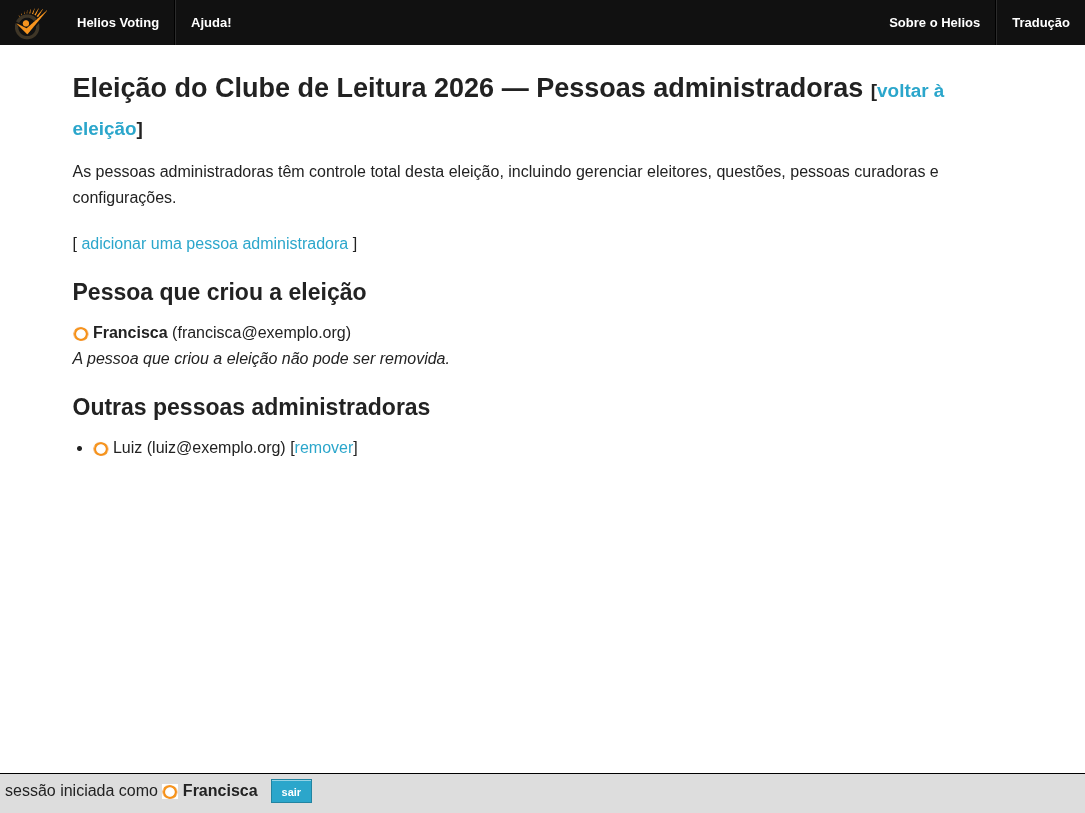
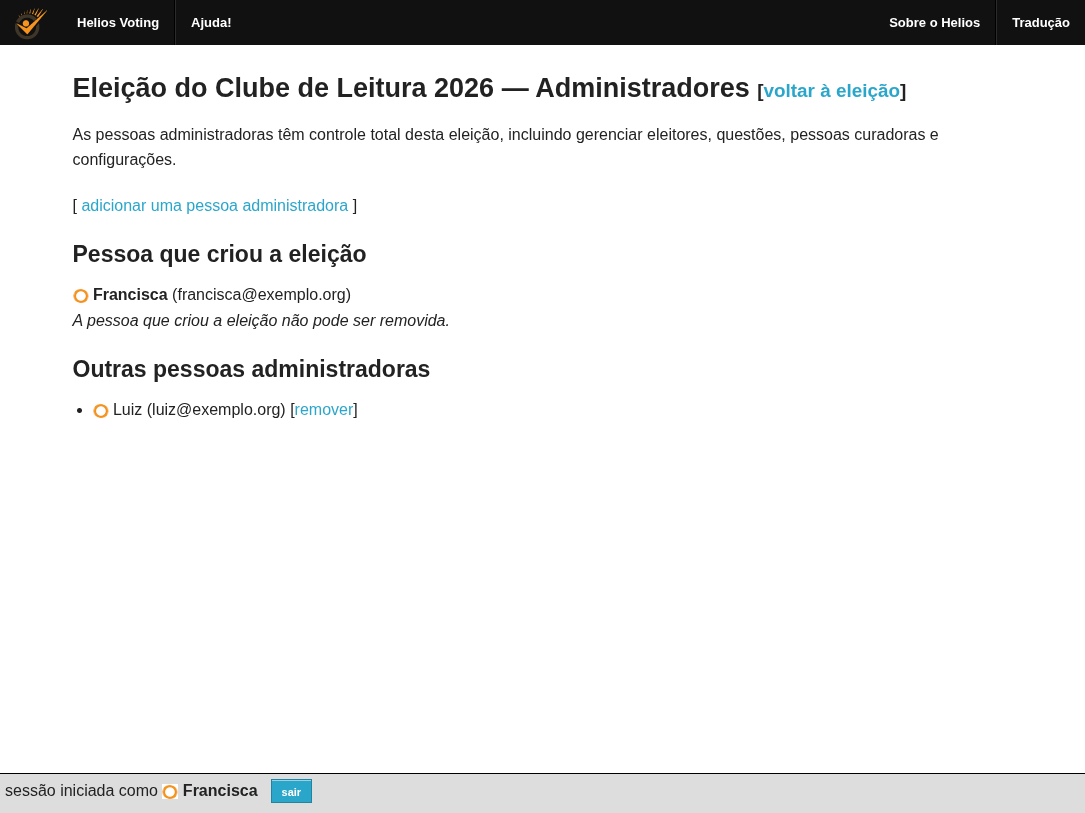
feat(i18n): chama a página dos administradores de Administradores de X

Changed region(s): [[0.0608, 0.1538, 0.8516, 0.4613], [0.0608, 0.492, 0.3954, 0.5535], [0.4866, 0.0923, 0.882, 0.123]]

diff --git a/helios/test_ptbr.py b/helios/test_ptbr.py
@@ -225,7 +225,8 @@ class PtBrAdminPagesTests(WebTest):
     def test_admins_page(self):
         r = self.get(reverse('election@admins', args=[self.election.uuid]))
         self.assertEqual(r.status_code, 200)
-        self.assertContains(r, 'Pessoas administradoras')
+        self.assertContains(r, '&mdash; Administradores')
+        self.assertNotContains(r, 'Pessoas administradoras de')
         self.assertContains(r, 'adicionar uma pessoa administradora')
         self.assertNotContains(r, 'add an administrator')
 

diff --git a/docs/diario.md b/docs/diario.md
@@ -245,7 +245,7 @@ Decisão do usuário, ponto a ponto, depois de ver a lista completa do que mudar
 - **Arquivos gerados:** `heliosverifier/js/strings.pt-BR.js` foi refeito com `python3 tools/po2js.py pt_BR --po locale/pt_BR/LC_MESSAGES/verifier.po --out heliosverifier/js/strings.pt-BR.js`.
 - **Testes:** `helios/test_ptbr.py` confere o menu ("eleitores e cédulas", "curadoria (") e as contagens ("1 eleitor", "2 eleitores").
 - **Imagens do manual:** as 20 imagens foram refeitas com os novos nomes (mesma eleição da seção 15). O manual ganhou "Clique em **curadoria**" no passo 5.
-- **Ficou aberto:** a página que o item `administradores` abre ainda se chama "Pessoas administradoras de X". Se quiser combinar com o menu, vira "Administradores de X".
+- **Resolvido na Fase C (seção 18):** a página do item `administradores` agora se chama "Administradores de X".
 
 
 ## 17. Vocabulário dos outros projetos e página "Tradução" (2026-11-19)
@@ -276,7 +276,7 @@ Lista para revisar com o usuário. A ordem é a de hoje, e cada fase pode mudar 
 |---|---|---|
 | A | **Imagens dos tutoriais.** Feita em parte: o exemplo agora usa nomes brasileiros (seção 19). O **formato** das imagens (capturas inteiras da tela) continua o mesmo, e o usuário pode pedir outro depois. | Em revisão |
 | B | **Documentação do repositório.** O repositório quase não tem documentação própria. Decidir entre a wiki do GitHub (fica fora do código, sem PR) e `docs/` com GitHub Pages (entra em PR e acompanha o código). Os manuais `ajuda` e `ajuda-gestor` dos outros projetos em português (mkdocs, licença Apache-2.0) podem servir de base. | A decidir |
-| C | **Termos em aberto.** A página do item `administradores` ainda se chama "Pessoas administradoras de X". "Apurador" (usado pelos outros projetos e pela UFU) foi considerado, e ficou "pessoa curadora" e "curadoria". | A decidir |
+| C | **Termos.** Feita em 2026-11-19: a página do item `administradores` agora se chama "Administradores de X" (título e `<title>`). O resto dos textos de administração continua "pessoa administradora". "Apurador" (usado pelos outros projetos e pela UFU) foi considerado, e ficou "pessoa curadora" e "curadoria". | Feita |
 | D | **Revisão do `/privacy`** por quem responde pela política de privacidade da instituição. | Aguarda a revisão |
 | E | **PR da correção da apuração (`iterator`)** para o Ben: Issue já aberta, falta a branch a partir da `ben-master`, o teste e a nova medição (923 MiB, antes 15,5 GiB). | A fazer |
 | F | **Docker:** requeue das tarefas presas ao subir o `worker`, `GUNICORN_TIMEOUT`, `stop_grace_period` maior e limites de memória (estes só depois do PR da fase E). | A fazer |
